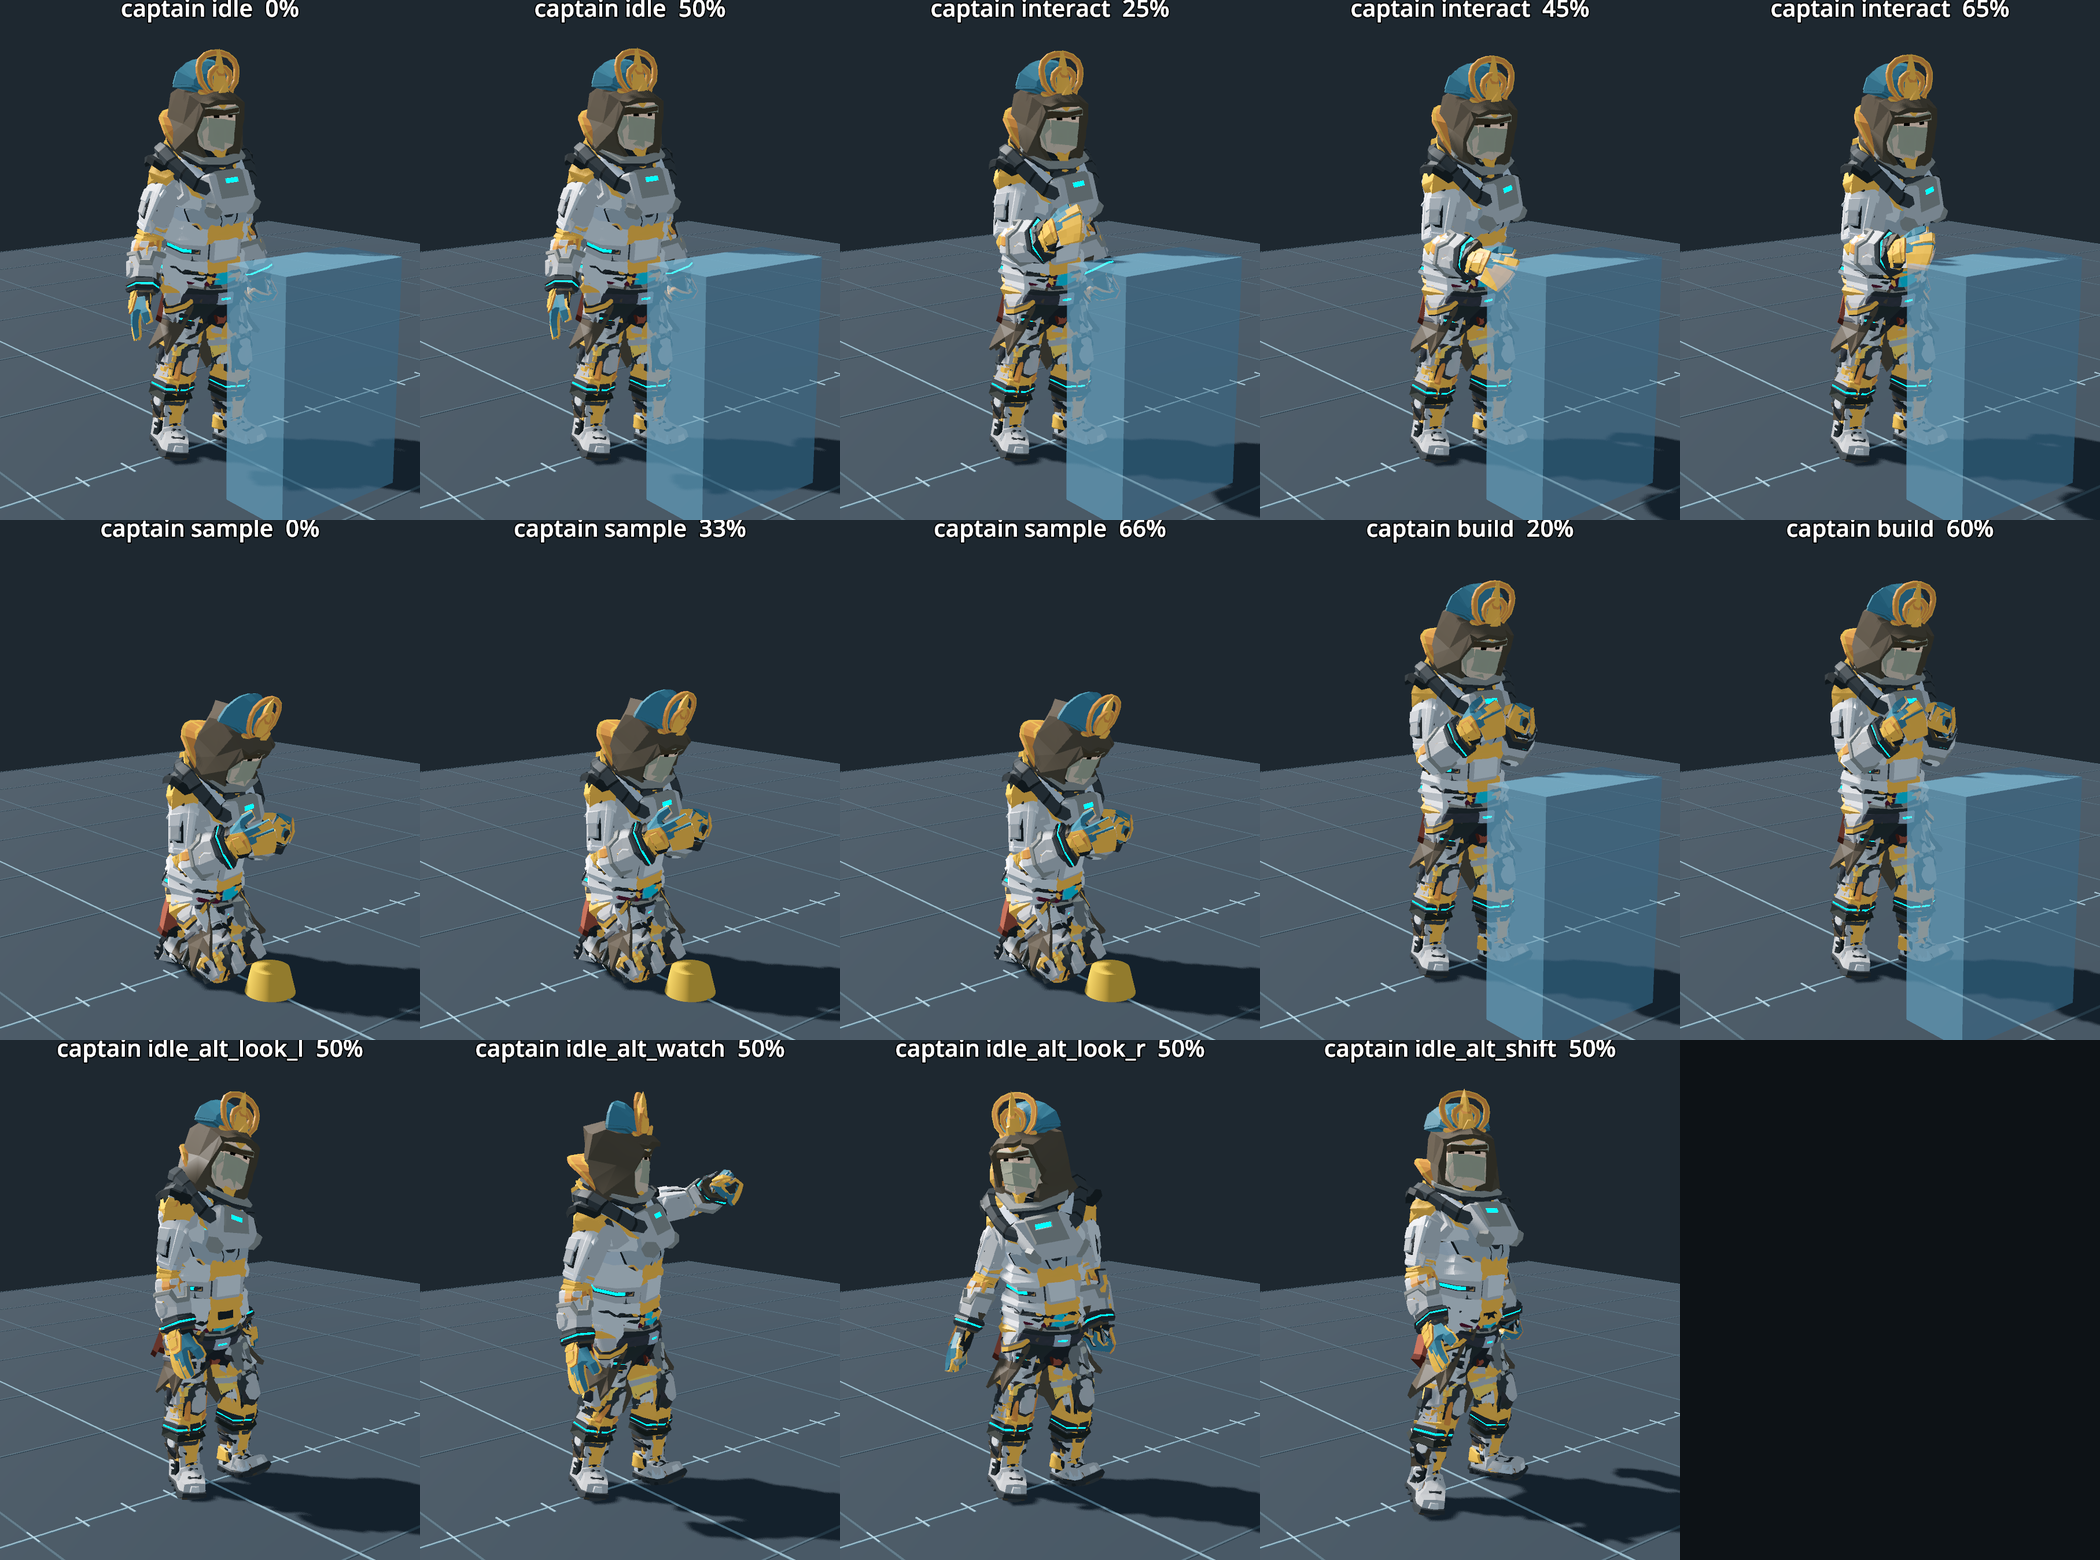
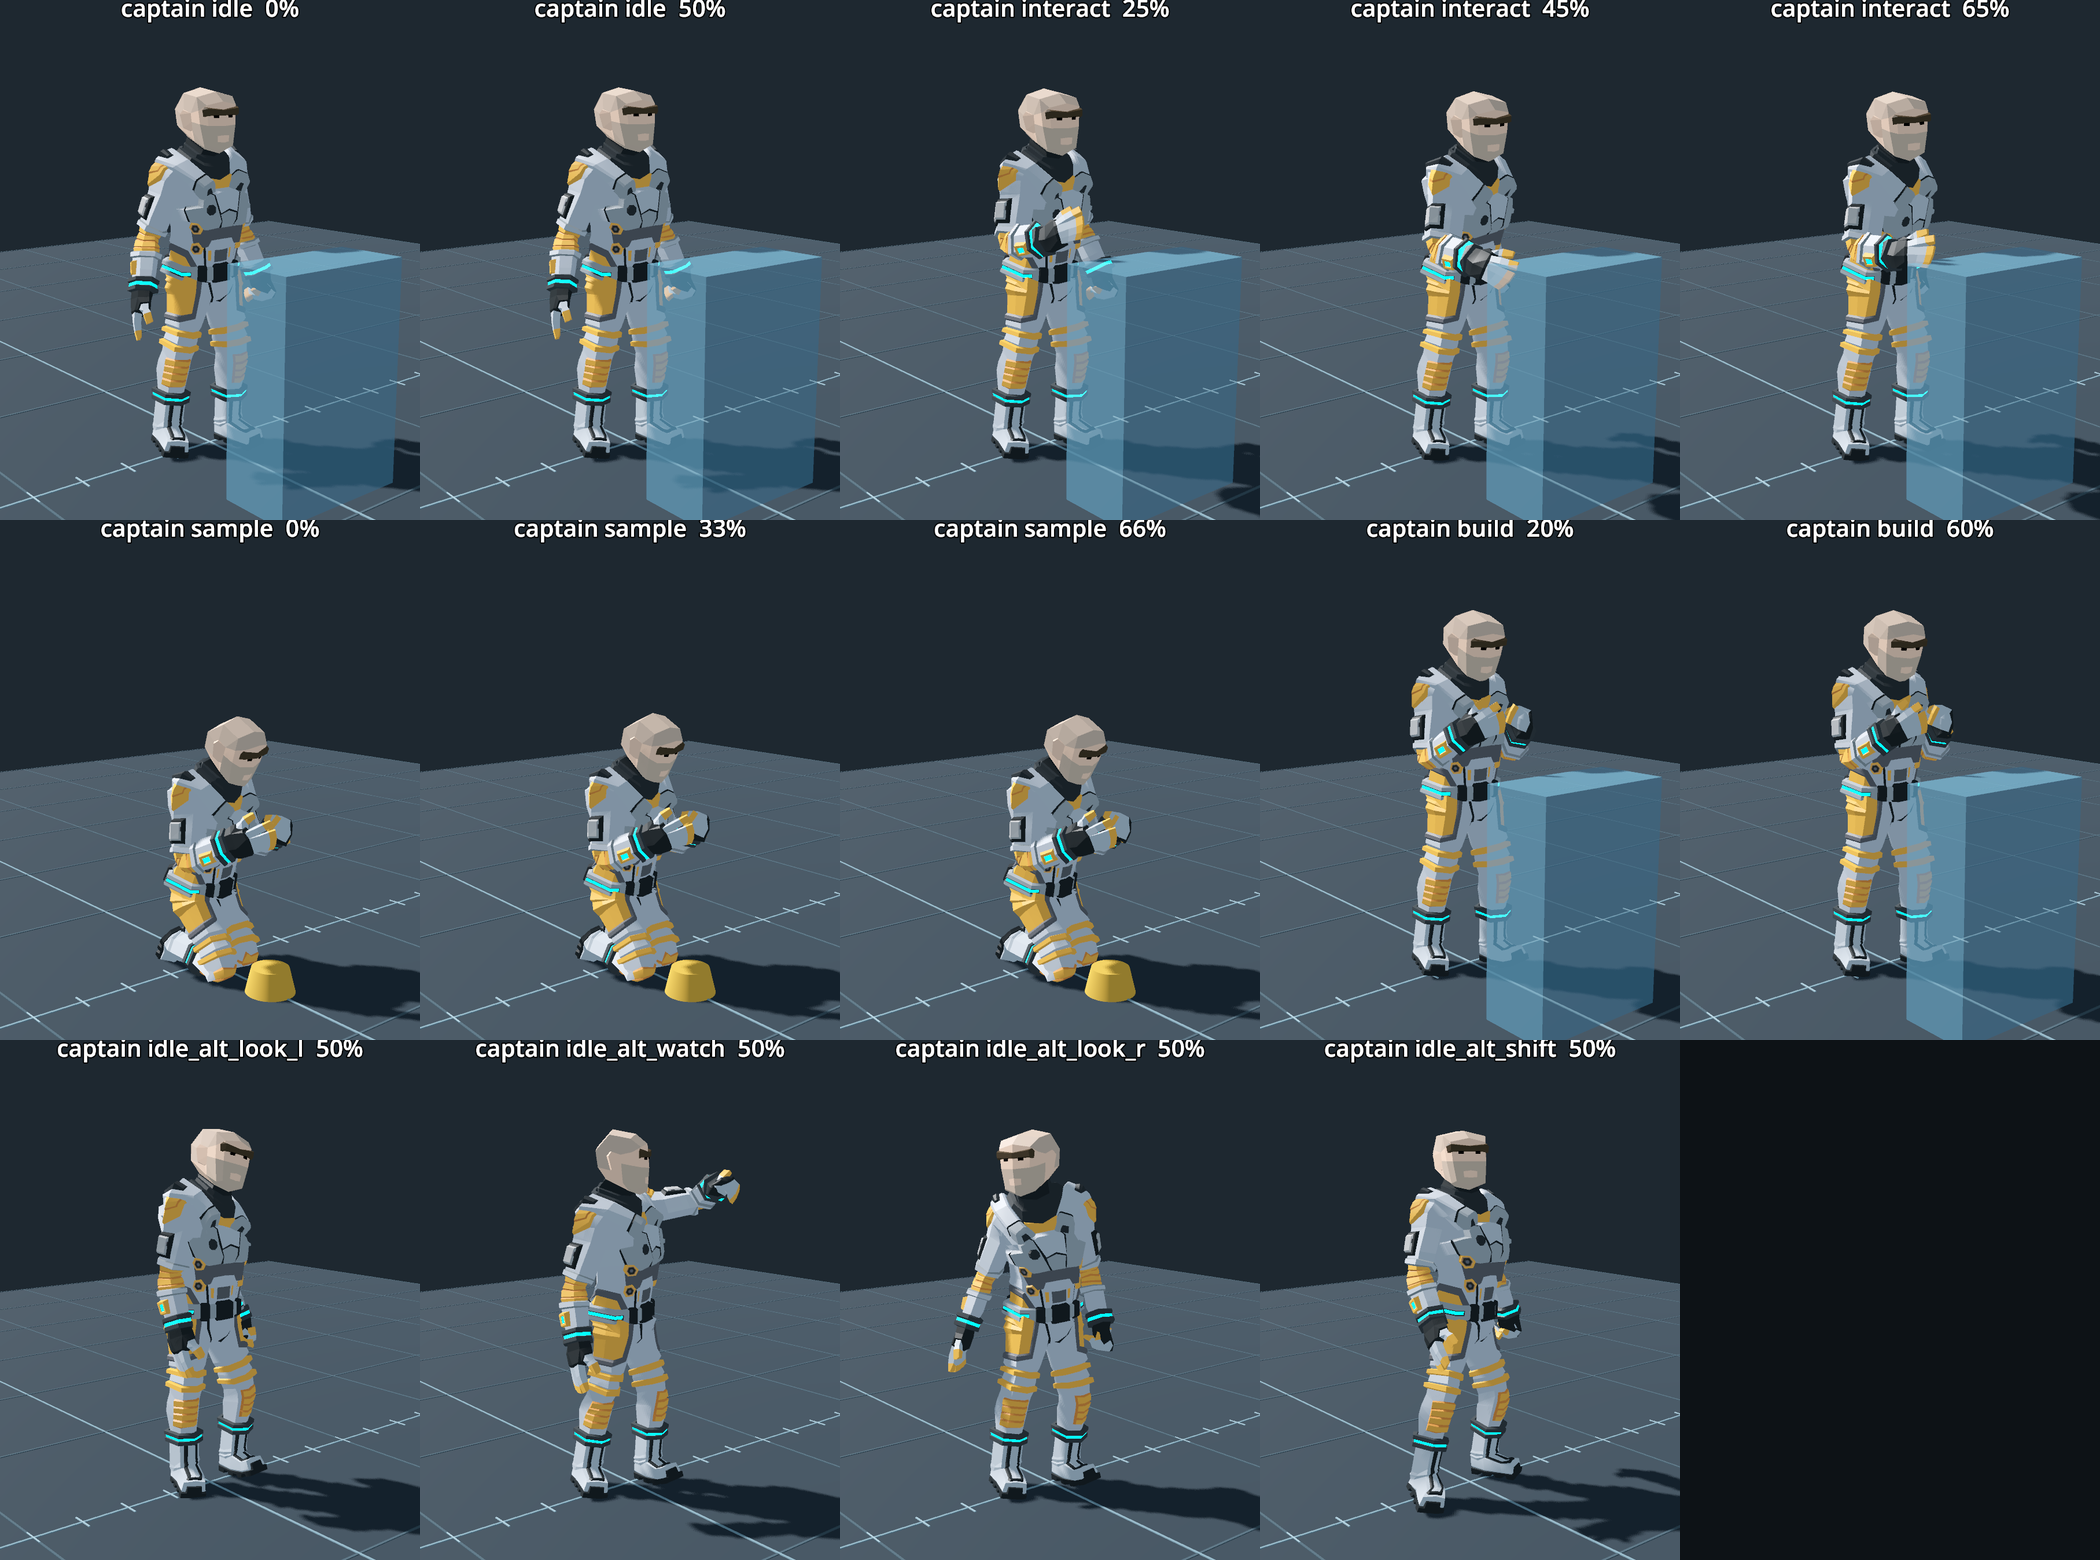
D-040 entry; contact sheets through VisualSlot (in-game look), probe checks body variants, in-game captures
All 10 adult colonist variants measure the same walk speed_ref (1.49 m/s)
on the shared library. Contact sheets re-rendered with main's colonist
bodies; ship idle and a walking colonist (era:viridia:25) captured on GPU.

diff --git a/docs/DECISIONS.md b/docs/DECISIONS.md
@@ -2,6 +2,9 @@
 
 Biblen er baseline. Her står begrundede valg og afvigelser. Nyeste øverst.
 
+### D-040 · Animationspas: målte gangarter, distance-matchede stop, levende tomgang
+Før gled kaptajnens fødder 1,52 m/s (36 %) ved gang 4,2 m/s og 3,19 m/s (46 %) ved løb 7,0 m/s: gåklippet (1,49 m/s) blev spillet 1,8× og løbeklippet (2,45 m/s) 1,56×; barnet gled 19 %. `tools/anim_probe.gd` måler nu hvert klips jordhastighed på den retargetede figur (fodballens fart mens den står på gulvet, krydstjekket mod Syntys root-motion-tvillinger: 1,45/2,59/7,24 m/s) og skriver `evidence/animation_pass/measurements.json`. Gangarten vælges efter målt `speed_ref` (`data/art/animation_map.json`): kaptajnen har walk_slow 1,49, walk_mid 2,45, walk 4,30 (fase-matchet blend af Synty Run og Sprint, w = 0,53, bygget offline af `AnimationLibraryBuilder.blend`) og run 7,03 m/s; afspilning = fart/ref inden for 0,6-1,5, så målt glid ved spillets hastigheder er 0. Stop bruger Syntys Walk/Run_ToIdle med *distance matching*: klippet holdes, hvor dets resterende vej er lig kaptajnens bremselængde v²/2a (bremsning 19 → 16 m/s² så stoppet kan ses: 0,55 m fra gang, 1,5 m fra løb). Drejning på stedet spiller turn-klip ved den reelle drejehastighed, og en start bagud drejer først; kaptajnen læner sig ind i kurver (≤ 9°). Handlinger: interact = tryk på konsol (højre hånd 0,56 m frem i 1,04 m højde), sample = knælende med en håndscanner (Pray_Kneeling-ben + UsePhone-overkrop lagt sammen, hofter 0,40 m) i hele 8 s-holdet, build = tablet. Tomgang starter i seedet fase og tempo og laver lejlighedsvis seedede idle_alt-klip (kig, ur, vægtskift, strække, gabe, tænke), så en flok aldrig bevæger sig i takt. Blendtider er data pr. tilstandsfamilie. Klippene ligger i `data/art/animation_overrides.json`, som `build_wrappers.gd` fletter over `synty_choices.json` (urørt); ekstra Synty-FBX hentes lokalt med `tools/synty/extract_anim_clips.py` til `assets/imported/anim_pass/` (gitignored), så den delte `assets/Synty`-junction ikke ændres. Visuel kontrol: `tools/anim_contact_sheet.gd` (rigtig GPU, posede kontaktark) i `evidence/animation_pass/`.
+
 ### D-038 · Indflyvning og ekspeditionsflade klædt på efter Synty-demoscenerne
 **Indflyvning:** `SpaceScenery` (`scripts/runtime/flight/space_scenery.gd`, data `data/art/space_scenery.json`) giver farezonens sten rigtige POLYGON Sci-Fi Space-asteroider (Astroid/Holes/Large, flad stenfarve pr. destinationsbiom), men *kun udseendet*: `flight_scene.gd` trækker præcis de samme rng-tal i samme rækkefølge, så positioner, radier, drift, kollisioner og bogføring er uændrede (kunstvalg bruger en separat rng). Rundt om korridoren: fjerne asteroidefelter som MultiMesh, tumlende vragdele, skibe og en station der passerer, en ringet gasgigant (planet-shaderen med bånd + egen ring-shader `art/shaders/planet_ring.gdshader`) i kontrastfarve, og let violet dybdedis (`SpaceBackdrop.set_depth_haze`). Intet af det kolliderer. Asteroid_01-07/Planet_* er udeladt: deres UV'er kræver planetteksturer, ikke atlasset.
 **Overflade:** `PoiDressing` (`scripts/runtime/surface/poi_dressing.gd`, data `data/art/surface_dressing.json`) klæder interessepunkterne på: landingslejr (pad, kasser, kalechestel, generator, fire lysbøjer), boring/ruiner ved hovedprøven, antennested på relæryggen, skeletter/vrag/krystalsten pr. fare-id, markørpæle langs den sikre rute og advarselsrod langs den korte. Kits flettes `any` + biom + planet + fare-id og placeres deterministisk pr. site. Hver del holder fri radius om interagerbare punkter, landeren, spawn og rutepolylinjerne; leverandørens kollidere fjernes, spillet lægger egne cylindre kun uden for de frie zoner (røgtest `surface_dressing_keeps_paths_clear`, kontrolleret på alle seks planeter). Planetidentitet (terræn, flora, lys) ejes af koordinatoren; `surface_scene.gd` har kun én hook-linje. Manglende pakker springes over.
